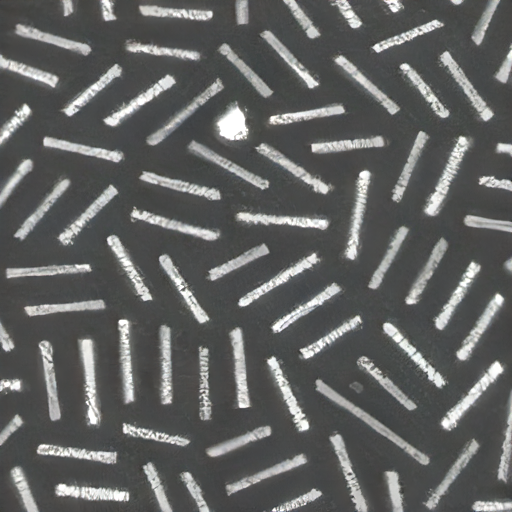
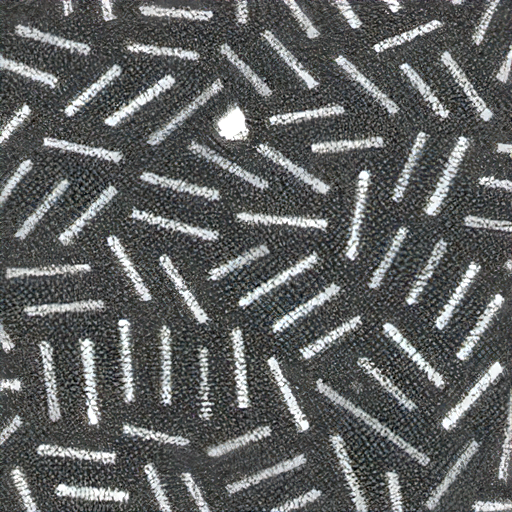
Updated Images

diff --git a/demos/MACE/macedemo.py b/demos/MACE/macedemo.py
@@ -11,9 +11,11 @@ import os
 import numpy as np
 import argparse
 import cv2
+
 from utils import conv2d
 from utils import atranspose
 from utils import psnr
+
 import torch
 from models.network_dncnn import DnCNN as net
 

diff --git a/demos/MDF/mdfdemo.py b/demos/MDF/mdfdemo.py
@@ -11,9 +11,11 @@ import os
 import numpy as np
 import argparse
 import cv2
+
 from utils import conv2d
 from utils import atranspose
 from utils import psnr
+
 import torch
 from models.network_dncnn import DnCNN as net
 

diff --git a/demos/DPSR/demo_test_dpsr_real.py b/demos/DPSR/demo_test_dpsr_real.py
@@ -60,7 +60,7 @@ def main():
     sf = 4
     show_img = True
     #noise_level_img = 8./255.
-    noise_level_img = 10.0/255.
+    noise_level_img = 0/255.
     testsets = 'testsets'
     testset_current = 'real_imgs'
 
